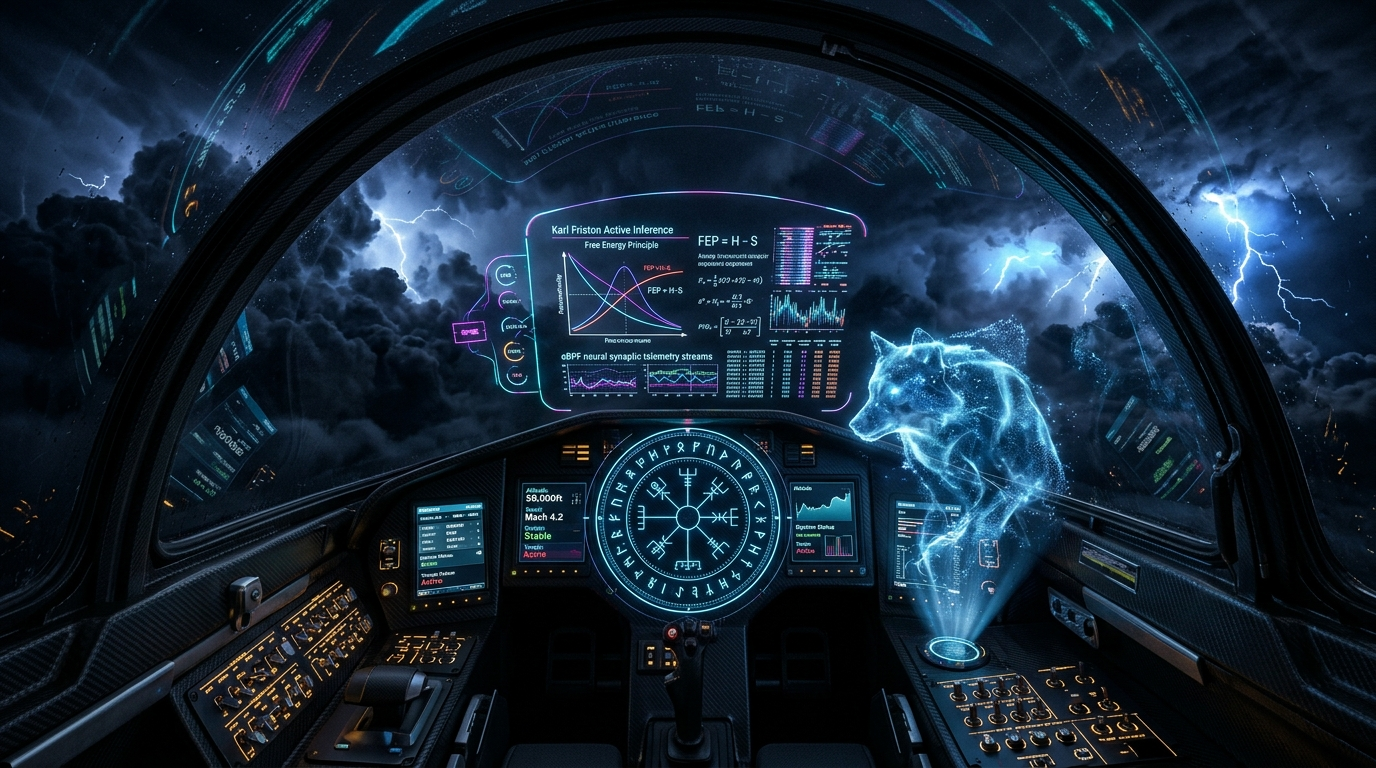
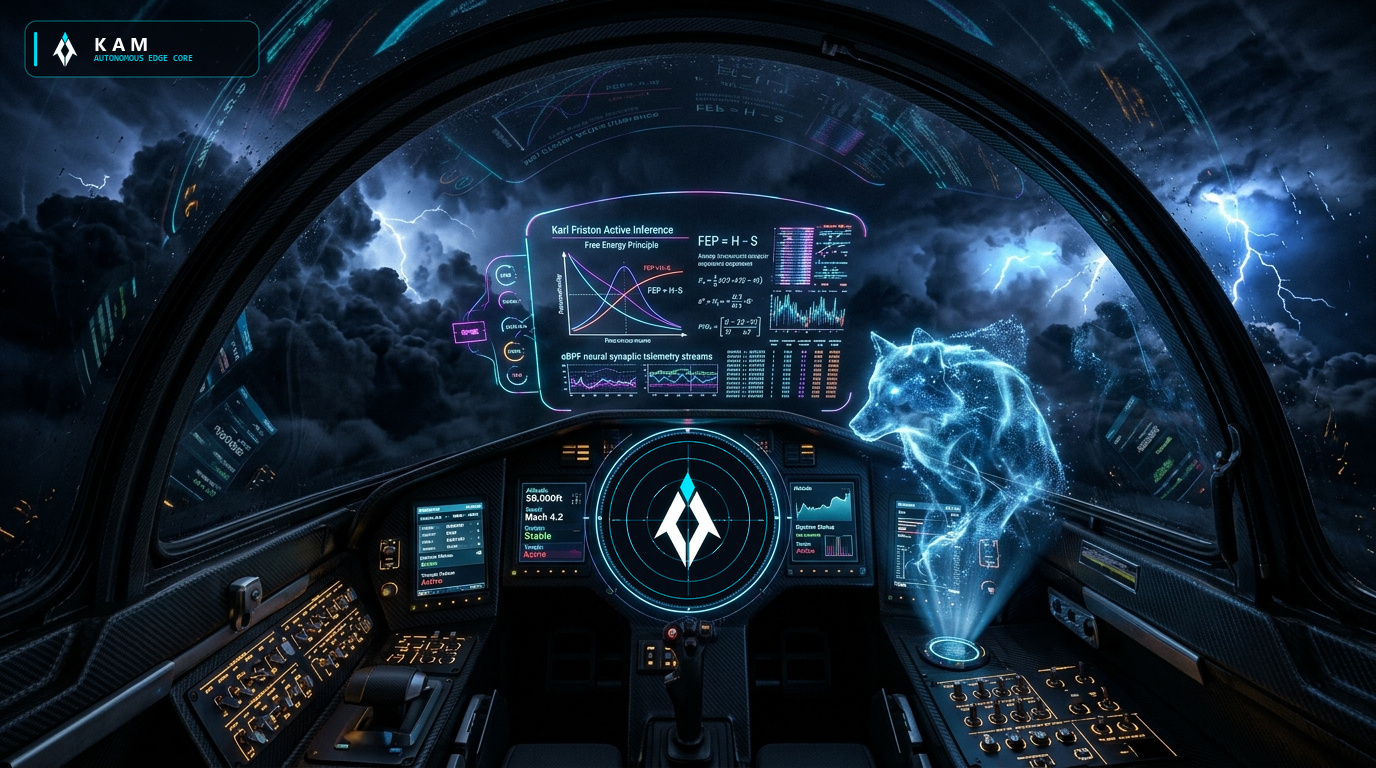
feat: Yeni monolitik KAM logosu ucak govdesine, kokpit radar ekranina ve tum README gorsellerine islendi

Changed region(s): [[0.4375, 0.5625, 0.5625, 0.8125], [0.0, 0.0312, 0.1875, 0.125]]

diff --git a/scripts/brand_assets.py b/scripts/brand_assets.py
@@ -1,0 +1,205 @@
+import os
+from PIL import Image, ImageDraw, ImageFont, ImageFilter
+import numpy as np
+
+
+def render_kam_mark(size: int, glow: bool = False) -> Image.Image:
+    """
+    Renders the iconic 3-piece monolithic KAM logo with 4x supersampling.
+    """
+    ss = 4
+    S = size * ss
+    canvas = Image.new("RGBA", (S, S), (0, 0, 0, 0))
+    draw = ImageDraw.Draw(canvas)
+
+    def scale_pts(pts):
+        return [(int(x * S / 1024.0), int(y * S / 1024.0)) for x, y in pts]
+
+    # Top Sovereign Singularity Diamond (Electric Ice-Cyan #00E5FF)
+    diamond = scale_pts([(512, 130), (572, 252), (512, 374), (452, 252)])
+    # Left Monolithic Wing (Stark White #FFFFFF)
+    left_wing = scale_pts([
+        (436, 286), (496, 400), (416, 548), (496, 700),
+        (496, 896), (344, 608), (242, 666)
+    ])
+    # Right Monolithic Wing (Stark White #FFFFFF)
+    right_wing = scale_pts([
+        (588, 286), (528, 400), (608, 548), (528, 700),
+        (528, 896), (680, 608), (782, 666)
+    ])
+
+    if glow:
+        glow_layer = Image.new("RGBA", (S, S), (0, 0, 0, 0))
+        gdraw = ImageDraw.Draw(glow_layer)
+        gdraw.polygon(diamond, fill=(0, 229, 255, 180))
+        gdraw.polygon(left_wing, fill=(0, 229, 255, 110))
+        gdraw.polygon(right_wing, fill=(0, 229, 255, 110))
+        glow_layer = glow_layer.filter(ImageFilter.GaussianBlur(radius=S * 0.04))
+        canvas = Image.alpha_composite(canvas, glow_layer)
+        draw = ImageDraw.Draw(canvas)
+
+    draw.polygon(diamond, fill=(0, 229, 255, 255))
+    draw.polygon(left_wing, fill=(255, 255, 255, 255))
+    draw.polygon(right_wing, fill=(255, 255, 255, 255))
+
+    return canvas.resize((size, size), Image.Resampling.LANCZOS)
+
+
+def create_hud_badge(width: int = 236, height: int = 58) -> Image.Image:
+    """
+    Creates an aerospace defense HUD badge with the monolithic KAM mark and typography.
+    """
+    ss = 4
+    W, H = width * ss, height * ss
+    badge = Image.new("RGBA", (W, H), (0, 0, 0, 0))
+    draw = ImageDraw.Draw(badge)
+
+    # Obsidian glass pill background
+    draw.rounded_rectangle(
+        [2, 2, W - 3, H - 3],
+        radius=12 * ss,
+        fill=(5, 9, 16, 208),
+        outline=(0, 229, 255, 115),
+        width=ss,
+    )
+
+    # Left vertical cyan accent bar
+    draw.rounded_rectangle(
+        [10 * ss, 12 * ss, 13 * ss, H - 12 * ss],
+        radius=ss,
+        fill=(0, 229, 255, 235),
+    )
+
+    # Downsample base plate first
+    badge_small = badge.resize((width, height), Image.Resampling.LANCZOS)
+
+    # Paste high-precision KAM mark
+    mark_size = height - 12
+    mark = render_kam_mark(mark_size, glow=True)
+    badge_small.alpha_composite(mark, (18, 6))
+
+    # Draw crisp typography
+    d_small = ImageDraw.Draw(badge_small)
+    try:
+        font_title = ImageFont.truetype("C:/Windows/Fonts/segoeuib.ttf", 19)
+        font_sub = ImageFont.truetype("C:/Windows/Fonts/consolab.ttf", 9)
+    except Exception:
+        font_title = ImageFont.load_default()
+        font_sub = ImageFont.load_default()
+
+    d_small.text((70, 10), "K A M", fill=(255, 255, 255, 250), font=font_title)
+    d_small.text((70, 34), "AUTONOMOUS EDGE CORE", fill=(0, 229, 255, 215), font=font_sub)
+
+    return badge_small
+
+
+def upgrade_cockpit_mfd(img: Image.Image) -> Image.Image:
+    """
+    Replaces the circular center MFD inside kam_cyber_cockpit_hud.jpg
+    with the sovereign monolithic KAM logo and avionics telemetry rings.
+    """
+    out = img.convert("RGBA")
+    cx, cy, r = 688, 520, 86
+
+    ss = 4
+    D = (r * 2) * ss
+    mfd = Image.new("RGBA", (D, D), (0, 0, 0, 0))
+    mdraw = ImageDraw.Draw(mfd)
+
+    # Dark avionics CRT/OLED background inside circular bezel
+    mdraw.ellipse([0, 0, D - 1, D - 1], fill=(4, 11, 20, 252))
+
+    # Concentric radar rings
+    for frac, alpha in [(0.92, 160), (0.72, 95), (0.48, 65)]:
+        rad = int((D // 2) * frac)
+        c = D // 2
+        mdraw.ellipse(
+            [c - rad, c - rad, c + rad, c + rad],
+            outline=(0, 229, 255, alpha),
+            width=ss,
+        )
+
+    # Subtle polar crosshair lines
+    c = D // 2
+    mdraw.line([(c, int(D * 0.06)), (c, int(D * 0.94))], fill=(0, 229, 255, 55), width=ss)
+    mdraw.line([(int(D * 0.06), c), (int(D * 0.94), c)], fill=(0, 229, 255, 55), width=ss)
+
+    mfd_small = mfd.resize((r * 2, r * 2), Image.Resampling.LANCZOS)
+
+    # Composite glowing KAM mark right in the center of the cockpit MFD
+    mark_sz = int(r * 1.48)
+    mark = render_kam_mark(mark_sz, glow=True)
+    offset = (r * 2 - mark_sz) // 2
+    mfd_small.alpha_composite(mark, (offset, offset))
+
+    out.alpha_composite(mfd_small, (cx - r, cy - r))
+    return out
+
+
+def upgrade_hero_fuselage(img: Image.Image) -> Image.Image:
+    """
+    Cleans old glowing markings on the stealth jet hull in kam_hero_banner.jpg
+    and brands the aircraft fuselage with an angled monolithic KAM emblem.
+    """
+    arr = np.array(img.convert("RGB")).copy()
+
+    # Smoothly replace bright cyan rune pixels in the two hull regions with local dark hull tone
+    for y1, y2, x1, x2 in [(420, 456, 598, 632), (412, 447, 745, 812)]:
+        patch = arr[y1:y2, x1:x2]
+        mask = (patch[:, :, 2] > 65) | (patch[:, :, 1] > 65)
+        dark_pixels = patch[~mask]
+        fill_color = np.array([26, 34, 43], dtype=np.uint8) if len(dark_pixels) == 0 else np.median(dark_pixels, axis=0).astype(np.uint8)
+        patch[mask] = fill_color
+        arr[y1:y2, x1:x2] = patch
+
+    out = Image.fromarray(arr).convert("RGBA")
+    for box in [(596, 418, 634, 458), (743, 410, 814, 449)]:
+        region = out.crop(box).filter(ImageFilter.GaussianBlur(radius=2.5))
+        out.paste(region, box[:2])
+
+    # Stamp tactical low-observable KAM insignia on the stealth hull
+    hull_mark = render_kam_mark(42, glow=True).rotate(-14, resample=Image.Resampling.BICUBIC, expand=True)
+    r, g, b, a = hull_mark.split()
+    a = a.point(lambda p: int(p * 0.88))
+    hull_mark = Image.merge("RGBA", (r, g, b, a))
+    out.alpha_composite(hull_mark, (754, 408))
+
+    return out
+
+
+def main():
+    badge = create_hud_badge(236, 58)
+
+    configs = [
+        ("assets/kam_hero_banner.jpg", "bottom_right", True, False),
+        ("assets/kam_ebpf_neural_system.jpg", "bottom_right", False, False),
+        ("assets/kam_jit_self_healing.jpg", "top_left", False, False),
+        ("assets/kam_swarm_active_inference.jpg", "bottom_right", False, False),
+        ("assets/kam_cyber_cockpit_hud.jpg", "top_left", False, True),
+        ("assets/kam_active_inference_chaos.jpg", "bottom_right", False, False),
+        ("assets/kam_uav_tactical_edge.jpg", "bottom_right", False, False),
+    ]
+
+    for path, pos, is_hero, is_cockpit in configs:
+        if not os.path.exists(path):
+            continue
+        im = Image.open(path).convert("RGBA")
+        if is_hero:
+            im = upgrade_hero_fuselage(im)
+        if is_cockpit:
+            im = upgrade_cockpit_mfd(im)
+
+        W, H = im.size
+        bw, bh = badge.size
+        if pos == "bottom_right":
+            xy = (W - bw - 24, H - bh - 20)
+        else:
+            xy = (24, 20)
+
+        im.alpha_composite(badge, xy)
+        im.convert("RGB").save(path, quality=95, subsampling=0)
+        print(f"[BRANDED] {path} -> {pos}")
+
+
+if __name__ == "__main__":
+    main()
